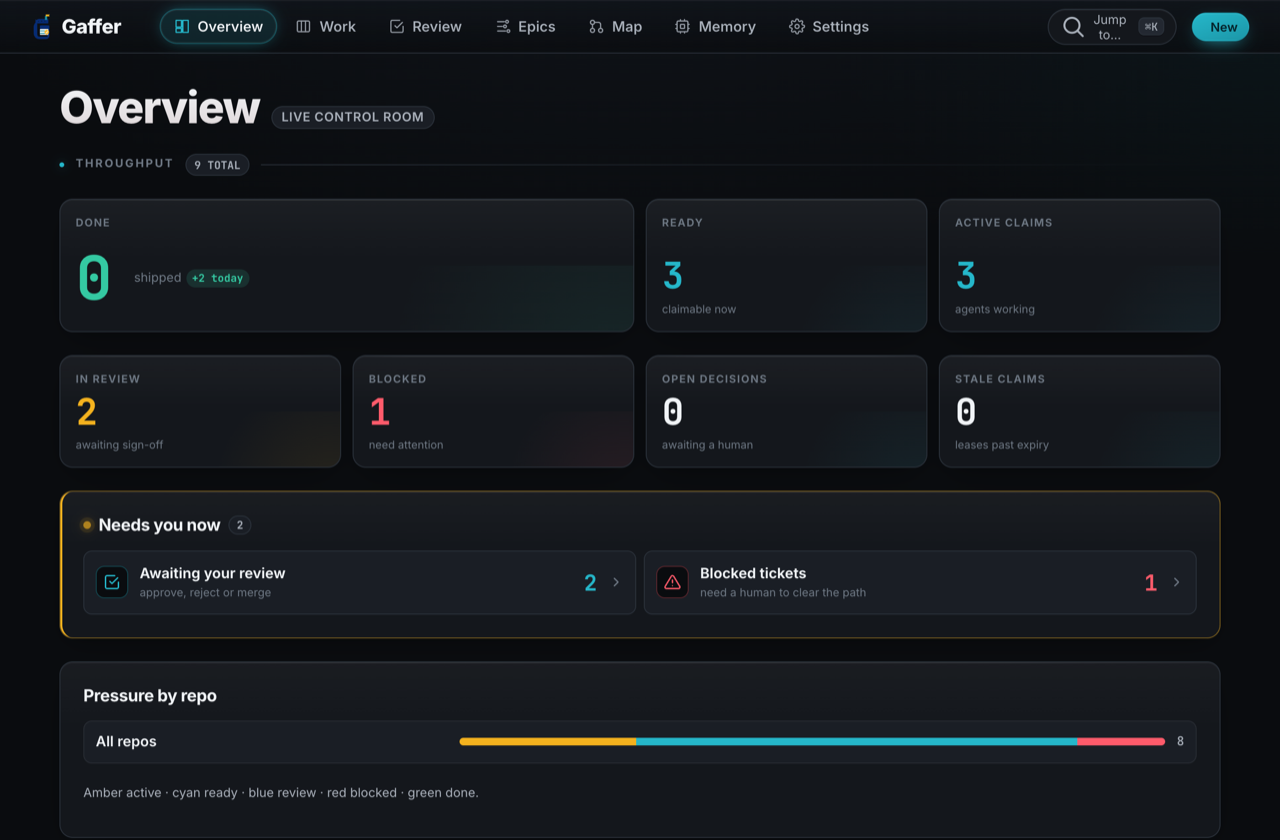
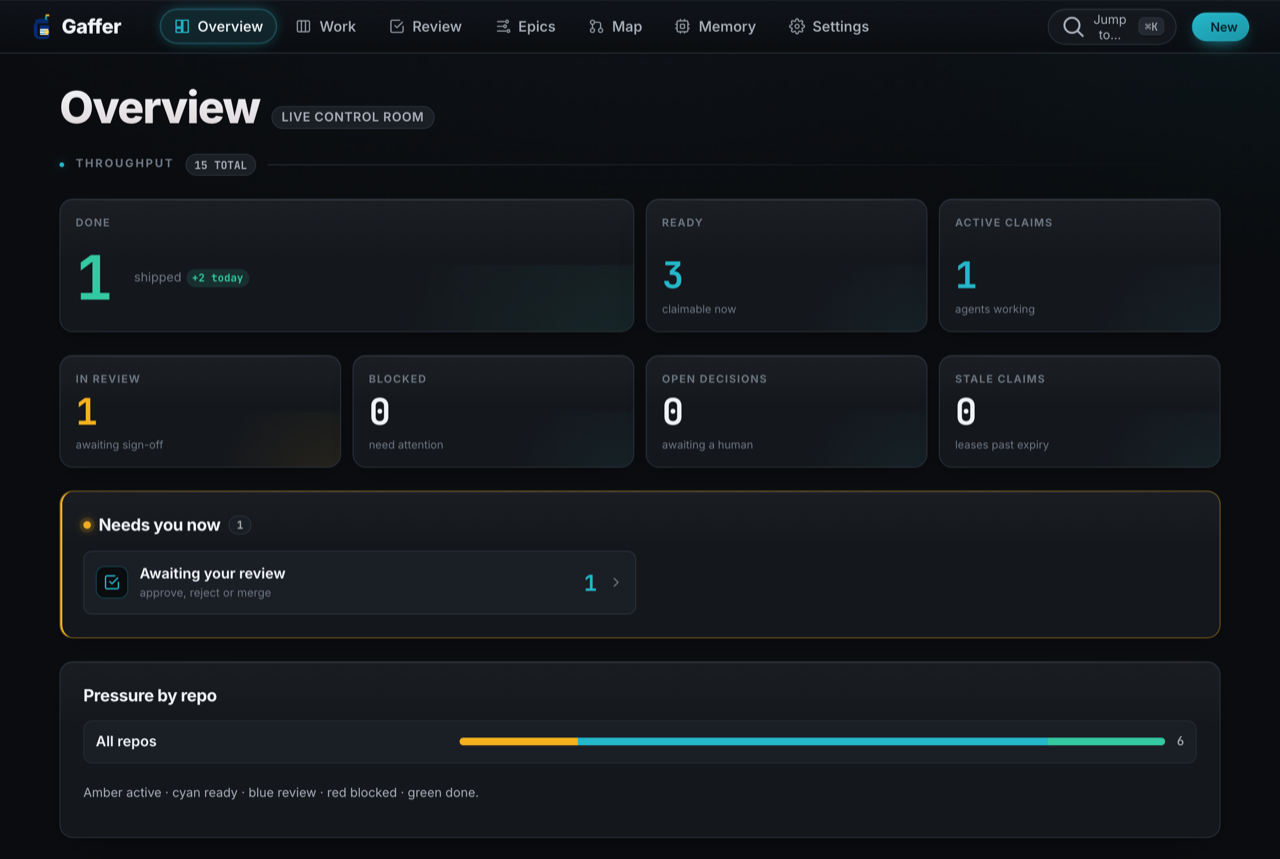
docs: showcase the planning engine and full dashboard tour in the README
The README under-sold the product: it showed Overview, board and memory but
not the headline — the planning engine that decomposes a one-line brief into a
dependency-ordered epic of tickets (greenfield and brownfield).

Add a screenshot-led "What it does" tour to the README, led by the planning
engine, plus a docs/FEATURES.md deep-dive. Captures of every dashboard surface
against a neutral "TaskFlow" demo dataset:

- plan-build: the decompose chat mid-flight, brief -> proposed epic with
  dependsOn edges (the hero shot)
- epics: the phased, dependency-ordered epic with phase gating
- review: the human gate with the server-verified git diff
- factory-map: a scope node and its mapped repos / per-repo access
- settings: opt-in autonomy flags, idle loops, planning debate
- refreshed overview / board / memory for consistency

Docs and images only — no source changes.

diff --git a/docs/FEATURES.md b/docs/FEATURES.md
@@ -1,0 +1,202 @@
+# Gaffer — feature tour
+
+A longer walk through what the factory actually does, surface by surface. The
+[README](../README.md) is the scannable version; this is the deep-dive.
+
+> Every screenshot here uses a neutral **demo dataset** — a fake "TaskFlow"
+> task-management product with two repos (`taskflow-api`, `taskflow-web`). It is
+> not anyone's real code, and it's seeded purely to show the surfaces with
+> believable content.
+
+---
+
+## The planning engine — brief → dependency-ordered epic
+
+The headline feature. A one-line brief becomes a **phased, dependency-ordered
+epic of tickets**, each ready to be worked through plan → implement → test →
+review.
+
+### How the decomposition works
+
+The "Plan a build" panel runs a real, multi-turn decomposer (the dashboard's
+`POST /plan-build` spawns `runner/bin/decompose.mjs`, a headless `claude -p`):
+
+1. **Clarify.** The first turn usually comes back as a short list of
+   **clarifying questions** — cadence, scope, whether to extend an existing
+   service or stand up a new one. You answer in plain language; answered
+   questions are treated as settled on later turns.
+2. **Propose.** Once it has enough, it returns a **plan**: an epic plus an
+   ordered list of tickets. Every ticket carries a title, a description,
+   **acceptance criteria**, a target repo, a priority, and an explicit
+   **`dependsOn`** edge naming the tickets it can't start before.
+3. **Confirm.** The plan is *proposed only* — nothing is created until you press
+   **"Create these tickets"**. Confirmed tickets land as **draft**, so the
+   planning step never sneaks work into the queue.
+
+You are never trapped in the clarify loop: **"Build the tickets"** forces the
+best plan from the brief and answers so far, and a long conversation
+force-plans rather than dead-ending.
+
+![Plan a build mid-decompose](img/plan-build.png)
+
+*The brief "add recurring tasks" decomposed into the proposed **Recurring tasks**
+epic. Each ticket has its own acceptance criteria; ticket #2 already shows it
+`depends on #1`. The guardrail banner is explicit: proposes only, confirmed
+tickets land as draft.*
+
+### Greenfield vs brownfield
+
+The decomposer takes one of two shapes depending on whether you point it at an
+existing repo:
+
+| Mode | When | What the plan looks like |
+|---|---|---|
+| **Greenfield** | "New app", no target repo | Exactly **one bootstrap ticket** (`git init` + scaffold, no dependencies); every other ticket transitively depends on it. A one-liner becomes a brand-new, structured repo. |
+| **Brownfield** | "Extend existing", a target repo/scope is chosen | **Zero bootstrap tickets** — there's nothing to scaffold. Every ticket is stamped with the target repo, so the plan *extends* what's already there. |
+
+The TaskFlow example above is brownfield: "add recurring tasks" to the existing
+`taskflow-api` / `taskflow-web` repos — data model first, then the API surface,
+the regeneration worker, the UI, and finally the docs.
+
+### The epic as a first-class object
+
+Once confirmed, the epic isn't just a label on a pile of tickets — it's the
+dependency graph the board enforces. Tickets are **gated phase by phase**: a
+phase can't start until the one before it is done.
+
+![The Epics view, expanded](img/epics.png)
+
+*The Recurring-tasks epic as four phases. Phase 1 (the data-model migration)
+unblocks Phase 2 (the API), which unblocks Phase 3 (the regeneration worker and
+the UI, which run in parallel), which unblocks Phase 4 (the docs). Each card
+shows what it's "blocked by" until its dependencies land.*
+
+---
+
+## The work board
+
+Day-to-day, work lives on the board. Tickets flow through
+**draft → ready → in-progress → blocked → review** lanes:
+
+- **Draft** — being shaped; vague tickets park here for a human rather than
+  being forced through. Acceptance criteria are added before a ticket can go
+  ready.
+- **Ready** — claimable; the runner picks these up.
+- **In progress** — claimed by an agent (the card shows which one).
+- **Blocked** — surfaced for a human, not silently retried forever.
+- **In review** — delivered, awaiting your sign-off.
+
+Every card carries a **risk badge**, a **priority**, and live
+**acceptance-criteria progress** (`2/3 satisfied`).
+
+![The work board](img/board.png)
+
+*Tickets spread across the lanes: drafts being shaped, ready work waiting, one
+ticket claimed and in progress by the demo agent, and one delivered into review.*
+
+---
+
+## The human review gate
+
+When an agent delivers, the ticket lands in **Review** — and this is the
+structural barrier the whole design hangs on.
+
+- The agent **cannot approve or merge its own work**. Approval is enforced
+  server-side; an agent actor is refused unless you explicitly opt into agent
+  approval (see [Settings](#control-you-opt-into)).
+- The diff you review is the **real `git diff`**, computed server-side from the
+  delivery branch against the repo's default branch — not a summary the agent
+  wrote about itself.
+- The **Approve button stays disabled until that diff actually loads.** You
+  can't sign off on a change you couldn't see; even the keyboard shortcut
+  fails closed.
+- **Reject** loops the ticket back for rework (or abandons it), with your reason
+  recorded and its acceptance criteria reset.
+
+![The review gate](img/review.png)
+
+*An in-review ticket: its evidence (passing tests), 3/3 satisfied acceptance
+criteria, and the server-verified diff for `taskflow-api` — the migration and
+its round-trip test. Approve / send-back are the human's alone.*
+
+---
+
+## The Factory Map
+
+Real products are several repos, not one. The **Factory Map** models that:
+**scope nodes** group repos into products, systems and capabilities, and each
+repo is linked into a node with a **relation** and a **default access** level —
+`write`, `read`, `test`, or `none`.
+
+This is what lets a ticket scoped to a product reach exactly the repos that
+product owns, at exactly the access it's been granted — a boundary the runner
+enforces, not a suggestion. Repos with no mapping behave as standalone
+single-repo scopes, so nothing has to be mapped to start working.
+
+![A scope node and its mapped repos](img/factory-map.png)
+
+*The TaskFlow product node and its two `owns` / `write` repos. The panel also
+shows how nodes connect to each other (`contains` / `depends_on`) to build the
+graph.*
+
+---
+
+## Durable repo memory — the Repo Understanding engine
+
+Gaffer doesn't re-learn a repo from cold on every run. **Memory** is the durable,
+human-gated knowledge the factory works from:
+
+- **Repo Digest** — a living TLDR of each repo's **overview / structure /
+  conventions / stack**, seeded at onboarding and refreshed deterministically as
+  tickets merge. It carries a freshness stamp and an honest caveat: it's a map
+  to *verify against the code* for high-stakes work, never a substitute for it.
+- **Feature ledger** — what's `backlog → building → shipped` per repo, so the
+  factory knows what already exists before it proposes building it again.
+- **Lore** — the team's recorded conventions, decisions, gotchas, and cross-repo
+  boundaries. It's **read-only in the product**: agents *draft* lore through an
+  MCP review gate, and a human approves it via the memory CLI — it is never
+  silently rewritten.
+
+![A repo's digest and feature ledger](img/memory.png)
+
+*The Repo Digest for `taskflow-api` — overview, structure, conventions and
+stack, with its freshness line and the "verify against code" caveat. The feature
+ledger and gated lore live on the same surface.*
+
+Memory is also usable standalone — see
+[`packages/memory/README.md`](../packages/memory/README.md).
+
+---
+
+## Control you opt into
+
+Gaffer is **supervised by default**. A human readies tickets, a human approves
+merges, and memory drafts wait for review. **Settings** is where you decide how
+much of that to hand over — and every autonomy flag is **off until you turn it
+on**:
+
+| Flag | Effect when on |
+|---|---|
+| `DISPATCH_ALLOW_AGENT_APPROVE` | An agent actor may approve a ticket's review (otherwise human-only). |
+| `MERGE_ON_AGENT_REVIEW` | Fire the merge when an agent — not just a human — approves. |
+| `MEMORY_AUTO_APPROVE` | Accept memory draft records without a human review step. |
+
+The same panel controls the **idle loops** (background work the factory mines
+between real tickets) and the **planning-debate** depth.
+
+![The Settings panel](img/settings.png)
+
+*Autonomy flags, all opt-in and shown off; idle loops; and planning debate.
+Nothing here is enabled by default — full hands-off autonomy is a deliberate
+choice you make, not the starting state.*
+
+---
+
+## Where to go next
+
+- [`../README.md`](../README.md) — the overview, architecture, install and safety
+  model.
+- [`../quickstart.md`](../quickstart.md) — a guided first run.
+- [`../SECURITY.md`](../SECURITY.md) — the full threat model and honest residual
+  limits.
+- [`../runner/README.md`](../runner/README.md) — the runner runbook.

diff --git a/README.md b/README.md
@@ -22,10 +22,81 @@ Most coding agents are stateless renters: every run starts cold, the "memory" is
 - **It runs on your machine.** Local-first: the control plane, databases, repo state, worktrees, and evidence all live on your box — no per-seat cloud, fully auditable. Live agent runs use your configured Claude Code CLI, so prompts and selected repo context are sent to that model provider. Treat any connected model as part of your trust boundary.
 - **You hold the gate.** By default a human approves every merge and the agent *structurally cannot* ship its own work. Opt-in flags unlock full hands-off autonomy when you actually want it.
 
-## Architecture
+## What it does
 
-![The Gaffer work board](docs/img/board.png)
-*The work board — tickets across draft → ready → in-progress → review, each with a risk badge and acceptance-criteria progress. (Demo data.)*
+> The screenshots below are a neutral **demo dataset** — a fake "TaskFlow" task-management product (an API and a web client). Not anyone's real repos.
+
+### Plan → a dependency-ordered epic of tickets
+
+This is the headline. You give Gaffer a one-line brief — *"add recurring tasks"*, *"build an app that summarises PDFs"* — and it **decomposes it into a phased, dependency-ordered epic of tickets**, each ready to be worked through plan → implement → test → review.
+
+It is not a single prompt that dumps a wall of code. The planner has a conversation: it asks a few **clarifying questions**, then proposes a plan where every ticket carries its own description, acceptance criteria, target repo, and an explicit **`dependsOn`** edge — so the work is *gated phase by phase* (the API can't start until the data model lands; docs come last). Nothing is created until you confirm; confirmed tickets land as **draft** for you to ready. If you'd rather skip the questions, **"Build the tickets"** forces the best plan from what it has so far — you're never stuck clarifying.
+
+It works in two directions:
+
+- **Greenfield** — no target repo: the plan opens with a single bootstrap ticket (`git init` + scaffold) that every other ticket depends on, so a one-liner becomes a brand-new, properly-structured repo.
+- **Brownfield** — an existing repo or scope: zero bootstrap, every ticket stamped onto the target repo, so the plan *extends* what's already there instead of rebuilding it.
+
+<p align="center">
+  <img src="docs/img/plan-build.png" alt="The Plan-a-build chat decomposing a brief into a dependency-ordered epic" width="900">
+  <br><sub><em>Plan a build — a one-line brief mid-decompose into the proposed <strong>Recurring tasks</strong> epic: each ticket has its own acceptance criteria and an explicit <code>depends&nbsp;on&nbsp;#1</code> edge. Proposes only; nothing runs until you confirm. (Demo data.)</em></sub>
+</p>
+
+Once confirmed, the epic is a first-class object: phases, member tickets, and the dependency graph the board enforces.
+
+<p align="center">
+  <img src="docs/img/epics.png" alt="The Epics view showing a phased, dependency-ordered epic" width="900">
+  <br><sub><em>The same epic as a phased plan: Phase 1 (data model) → Phase 2 (API, gated on phase 1) → Phase 3 (worker + UI) → Phase 4 (docs). A phase can't start until the one before it is done. (Demo data.)</em></sub>
+</p>
+
+### The work board
+
+Every ticket moves through **draft → ready → in-progress → review** lanes, each tagged with a risk badge, a priority, acceptance-criteria progress, and the agent that claimed it. Vague tickets sit in draft until a human shapes them; blocked tickets surface rather than being forced through.
+
+<p align="center">
+  <img src="docs/img/board.png" alt="The Gaffer work board" width="900">
+  <br><sub><em>The work board — tickets across the lanes with risk badges and acceptance-criteria progress; one ticket claimed and in progress, one delivered and awaiting review. (Demo data.)</em></sub>
+</p>
+
+### The human review gate
+
+When an agent delivers, the ticket lands in **Review** — and this is a *structural* barrier, not a courtesy. The agent **cannot approve or merge its own work**. The diff you sign off on is the **real `git diff`, computed server-side** against the delivery branch — never the agent's word for what it changed — and the Approve button stays disabled until that diff actually loads. Approve sends it to merge; reject loops it back for rework with your reason attached.
+
+<p align="center">
+  <img src="docs/img/review.png" alt="The Review gate with a server-computed diff and approve/reject" width="900">
+  <br><sub><em>The review gate: an in-review ticket with its evidence, satisfied acceptance criteria, and the server-verified diff — Approve / send-back are yours alone. (Demo data.)</em></sub>
+</p>
+
+### The Factory Map
+
+Repos rarely live alone. The **Factory Map** groups them into **scope nodes** (products, systems, capabilities) so the factory understands *which repos make up a product* and *what access it has to each* — `write`, `read`, `test`, or `none`. A ticket scoped to a product can reach exactly the repos that product owns, at exactly the access it's granted.
+
+<p align="center">
+  <img src="docs/img/factory-map.png" alt="A Factory Map scope node with its mapped repos and per-repo access" width="900">
+  <br><sub><em>The TaskFlow scope node and its two mapped repos, each with its relation and default access. Per-repo access is a boundary the runner enforces. (Demo data.)</em></sub>
+</p>
+
+### Durable repo memory
+
+Gaffer doesn't re-learn a repo from cold on every run. **Memory** keeps a living **Repo Digest** (overview / structure / conventions / stack) and a **feature ledger** (`backlog → building → shipped`) per repo, plus a gated **lore** knowledge base — the team's recorded conventions, decisions, and cross-repo boundaries. It's the Repo Understanding engine, and it's read-only in the product: lore is curated through the memory CLI's review gate, not silently rewritten by agents.
+
+<p align="center">
+  <img src="docs/img/memory.png" alt="A repo's digest and feature ledger in the Memory view" width="900">
+  <br><sub><em>The Repo Digest for an onboarded repo — overview, structure, conventions and stack, with a freshness stamp and the honest "verify against code for high-stakes work" caveat. (Demo data.)</em></sub>
+</p>
+
+### Control you opt into
+
+The factory is **supervised by default**: a human readies tickets, a human approves merges, memory drafts wait for review. **Settings** is where you loosen that — every autonomy flag is **off until you turn it on** (let an agent approve reviews, auto-merge on agent review, auto-approve memory). The same panel controls the idle loops that mine backlog work between tickets and the planning-debate depth.
+
+<p align="center">
+  <img src="docs/img/settings.png" alt="The Settings panel with autonomy flags, idle loops and planning debate" width="900">
+  <br><sub><em>Settings — autonomy flags (all opt-in, shown off), idle loops, and planning debate. Nothing here is on by default. (Demo data.)</em></sub>
+</p>
+
+For a longer walkthrough of each surface, see [`docs/FEATURES.md`](docs/FEATURES.md).
+
+## Architecture
 
 Four components, one workspace:
 
@@ -50,10 +121,7 @@ Four components, one workspace:
 
 Gaffer doesn't re-learn a repo from cold on every run. Memory keeps a living **Repo Digest** (a TLDR of overview / structure / conventions / stack) and a **feature ledger** (`backlog → building → shipped`) per repo, seeded at onboarding and refreshed deterministically as tickets merge — alongside the gated **lore** knowledge base (conventions, decisions, gotchas, cross-repo boundaries). Onboarding runs a skill-driven `claude -p` pass that produces a real digest, a feature inventory, and cited lore drafts grounded in the actual code.
 
-The digest is **a map, not the territory** — a fast orientation that the factory verifies against the real code for high-stakes work, never a substitute for it.
-
-![Gaffer repo memory](docs/img/memory.png)
-*Repo memory for an onboarded project — the generated digest, the feature ledger (shipped / building / backlog), and gated lore. (Demo data.)*
+The digest is **a map, not the territory** — a fast orientation that the factory verifies against the real code for high-stakes work, never a substitute for it. (See it in the [Durable repo memory](#durable-repo-memory) screenshot above.)
 
 ## Install
 